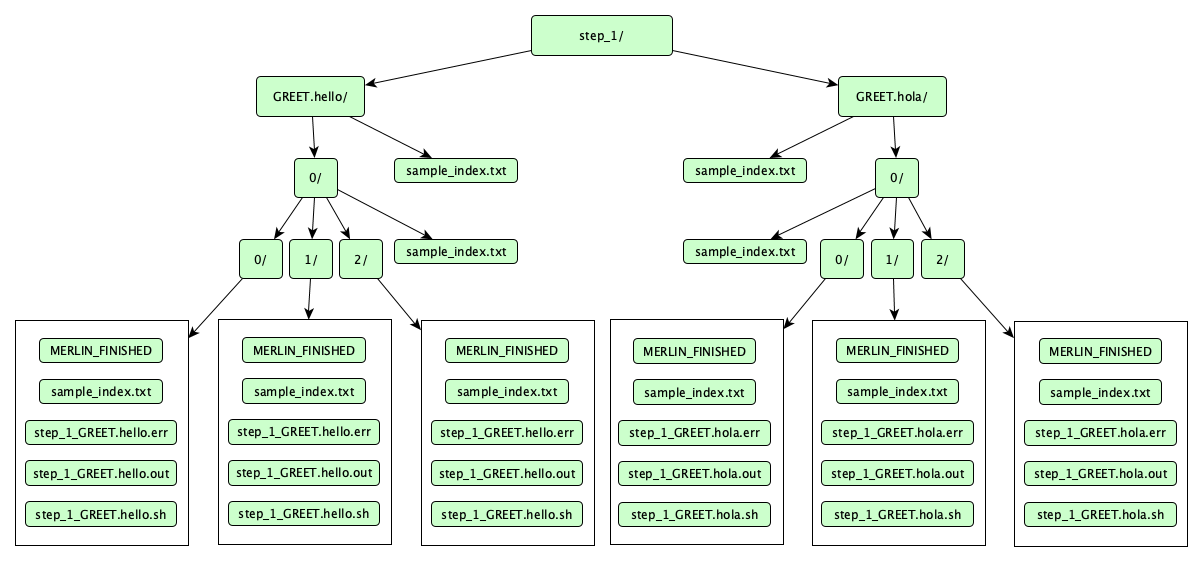
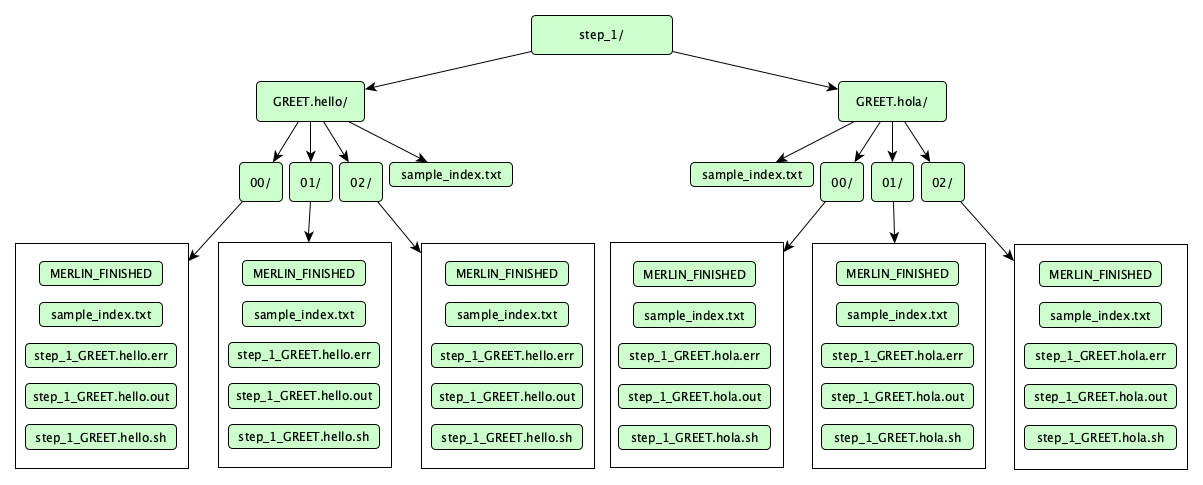
updated tutorial samples

diff --git a/docs/source/modules/hello_world/hello_world.rst b/docs/source/modules/hello_world/hello_world.rst
@@ -320,7 +320,7 @@ Once finished, this is what the insides of ``step_1`` look like:
 
 * ``sample_index.txt`` keeps track of samples in its directory. Similarly to ``MERLIN_FINISHED``, this is used interally by merlin and doesn't usually require user attention.
 
-* Numerically-named directories like ``0``, ``1``, and ``2`` are sample directories. Instead of storing sample output in a single flattened location, merlin stores them in a tree-like sample index, which helps get around file system constraints when working with massive amounts of data.
+* Numerically-named directories like ``00``, ``01``, and ``02`` are sample directories. Instead of storing sample output in a single flattened location, merlin stores them in a tree-like sample index, which helps get around file system constraints when working with massive amounts of data.
 
 Lastly, let's flex merlin's muscle a bit and scale up our workflow to 1000 samples. To do this, you could interally change the value in the spec from 3 to 1000. OR you could just run this:
 
